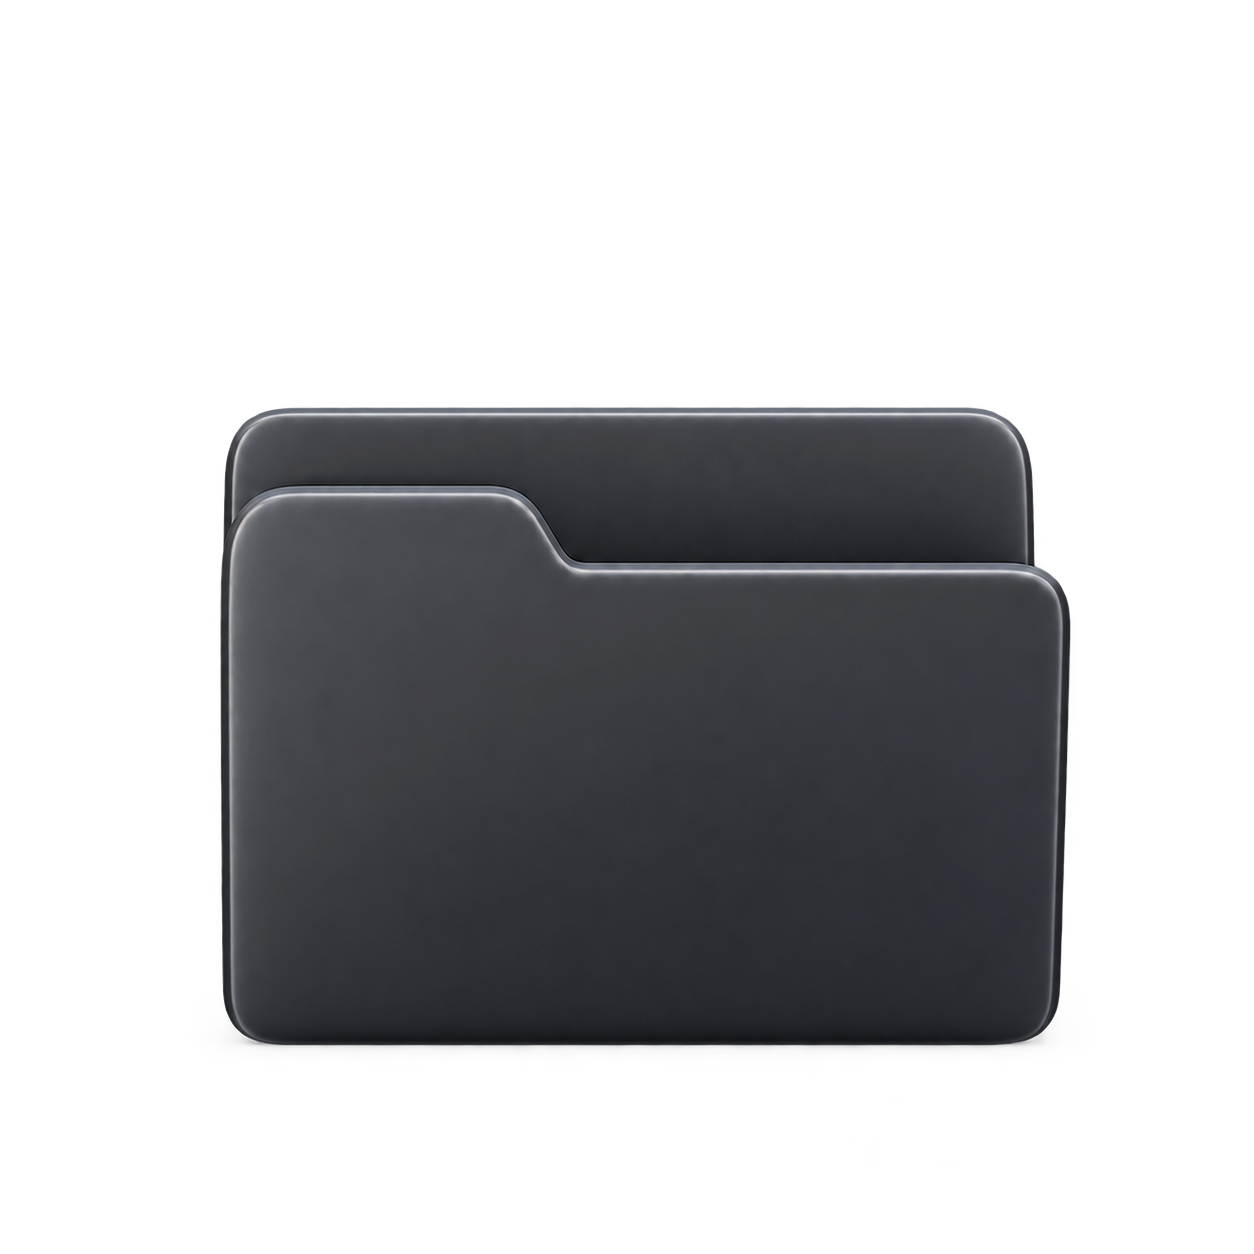
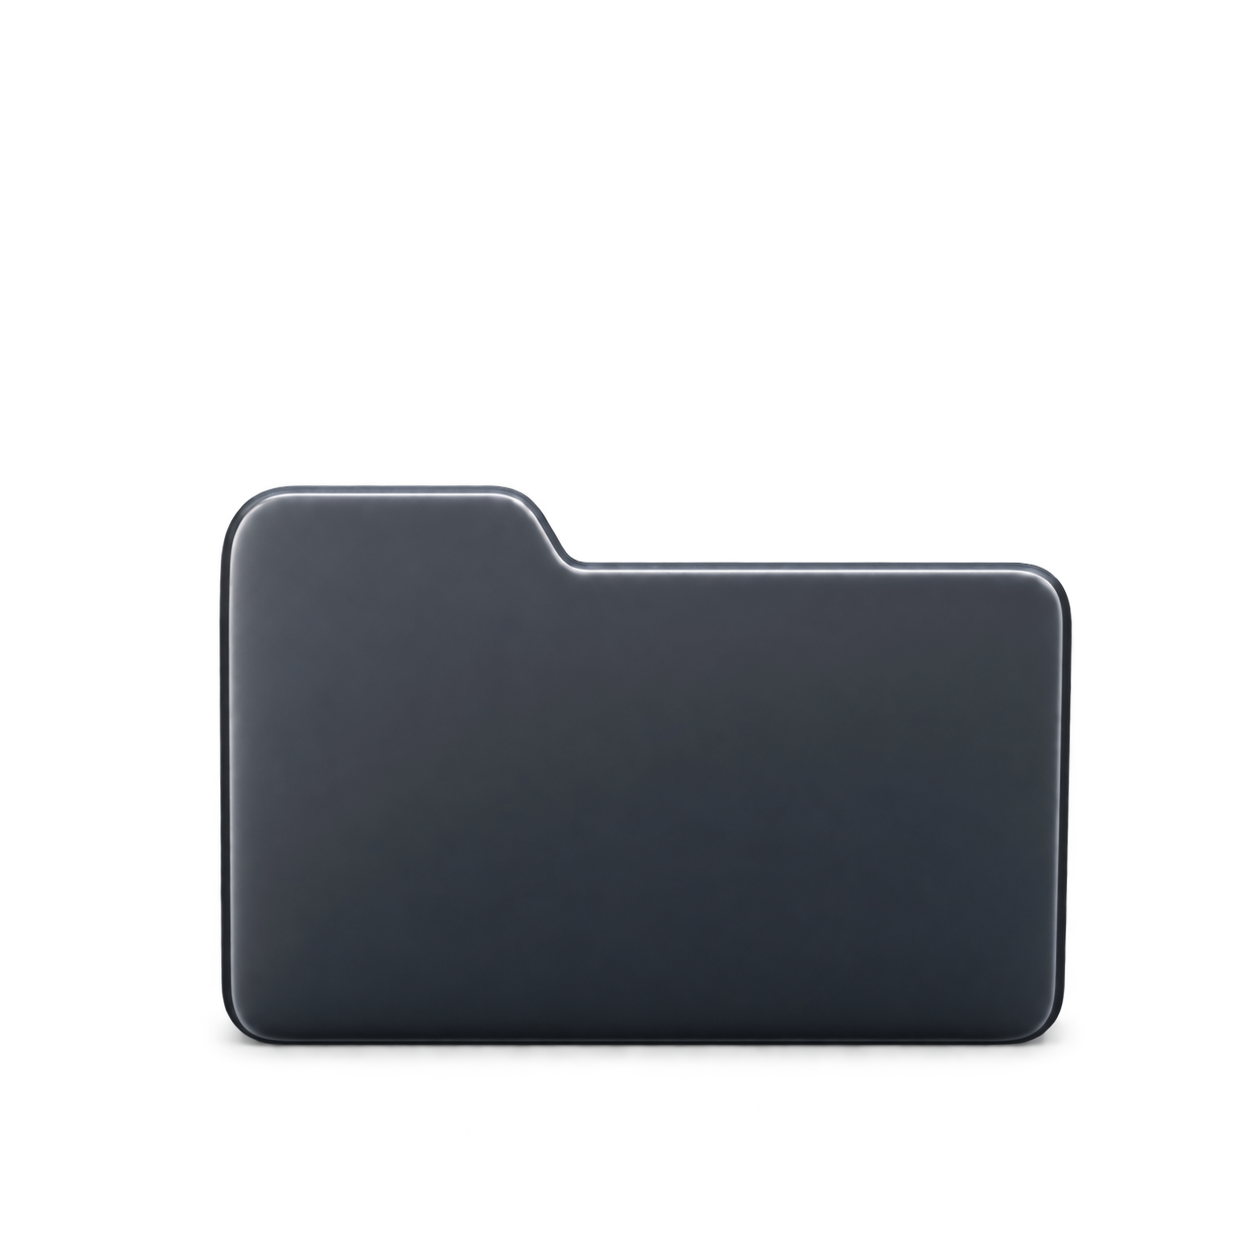
Seat exploration previews inside folder pockets

diff --git a/components/CategoryStacks.tsx b/components/CategoryStacks.tsx
@@ -9,9 +9,9 @@ import { PinterestGrid } from "./Lightbox";
 import LightboxModal from "./LightboxModal";
 
 const DOCUMENT_LAYOUTS = [
-  { left: "20%", top: "13%", width: "54%", rotate: -8, x: -22 },
-  { left: "31%", top: "10%", width: "51%", rotate: 7, x: 24 },
-  { left: "26%", top: "4%", width: "56%", rotate: 1, x: 2 },
+  { left: "21%", top: "27%", width: "48%", rotate: -6, x: -14 },
+  { left: "31%", top: "25%", width: "47%", rotate: 5, x: 16 },
+  { left: "25%", top: "20%", width: "52%", rotate: 1, x: 1 },
 ];
 
 export default function CategoryStacks({ categories }: { categories: HomeCategory[] }) {
@@ -59,9 +59,9 @@ function CategoryStack({ cat, onOpen }: { cat: HomeCategory; onOpen: () => void 
               key={img.id ?? i}
               className="absolute z-[1] overflow-hidden rounded-[7px] border border-white/90 bg-white shadow-[0_14px_28px_rgba(28,29,36,0.18)]"
               style={{ left: layout.left, top: layout.top, width: layout.width }}
-              animate={
-                hover
-                  ? { opacity: 1, x: layout.x, y: -10 - i * 12, rotate: layout.rotate }
+                animate={
+                  hover
+                  ? { opacity: 1, x: layout.x, y: -2 - i * 4, rotate: layout.rotate }
                   : { opacity: 0, x: 0, y: 42, rotate: 0 }
               }
               transition={{ type: "spring", stiffness: 280, damping: 24, delay: hover ? i * 0.045 : 0 }}
